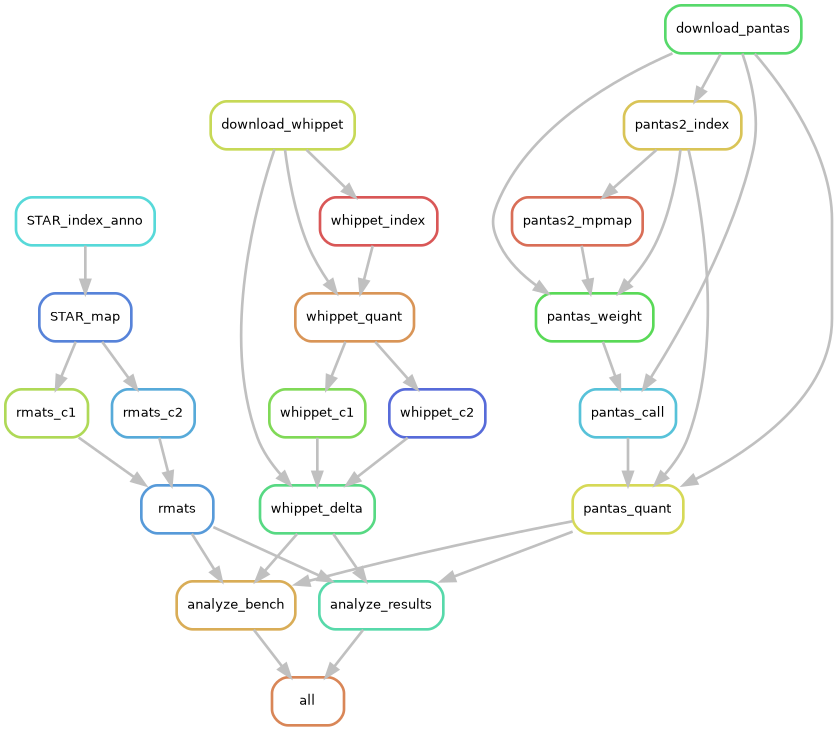
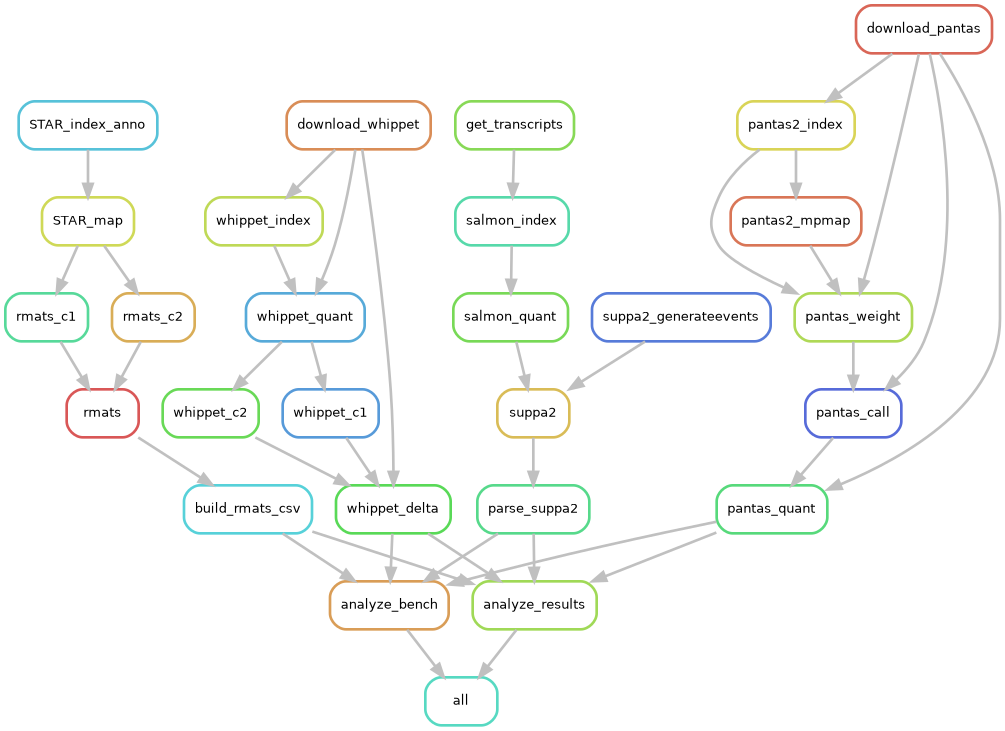
added README for drosophila real pipeline

diff --git a/exps/dm-real/README.md b/exps/dm-real/README.md
@@ -1,0 +1,36 @@
+# Exps on real data from Human
+
+## Setup input
+
+### Reference genome
+``` sh
+wget http://ftp.flybase.net/releases/FB2023_02/dmel_r6.51/fasta/dmel-all-chromosome-r6.51.fasta.gz
+gunzip dmel-all-chromosome-r6.51.fasta.gz
+samtools faidx dmel-all-chromosome-r6.51.fasta 2L 2R 3L 3R 4 X Y > ref.chroms.fa
+sed -i "s/^>/>chr/g" ref.chroms.fa
+samtools faidx ref.chroms.fa
+```
+
+### Gene Annotation
+``` sh
+wget http://ftp.flybase.net/releases/FB2023_02/dmel_r6.51/gtf/dmel-all-r6.51.gtf.gz
+for c in 2L 2R 3L 3R 4 X Y ; do zgrep -P "^$c\t" dmel-all-r6.51.gtf.gz ; done > genes.gtf
+```
+
+### RNA-Seq data
+RNA-Seq samples from [https://doi.org/10.1016/j.dib.2021.107413](https://doi.org/10.1016/j.dib.2021.107413) (SRA BioProject ID: PRJNA718442). Filter reads with N.
+``` sh
+for sraid in SRR14101759 SRR14101760 SRR14101761 SRR14101762 SRR14101763 SRR14101764 ; do fasterq-dump -p -3 $sraid ; gzip "$sraid"_1.fastq ; gzip "$sraid"_2.fastq ; done
+for sraid in SRR14101759 SRR14101760 SRR14101761 SRR14101762 SRR14101763 SRR14101764 ; do fastp -i "${sraid}"_1.fastq.gz -I "${sraid}"_2.fastq.gz -o "${sraid}"_l150_1_clean.fq.gz -O "${sraid}"_l150_2_clean.fq.gz -n 0 ; done
+```
+
+## Run experiments
+Update `config/config.yaml` before.
+``` sh
+snakemake -pj 32 --use-conda [-n]
+```
+
+Plots and CSVs in `$ODIR/results`.
+
+## Pipeline overview
+![Pipeline rules](rules.png)
